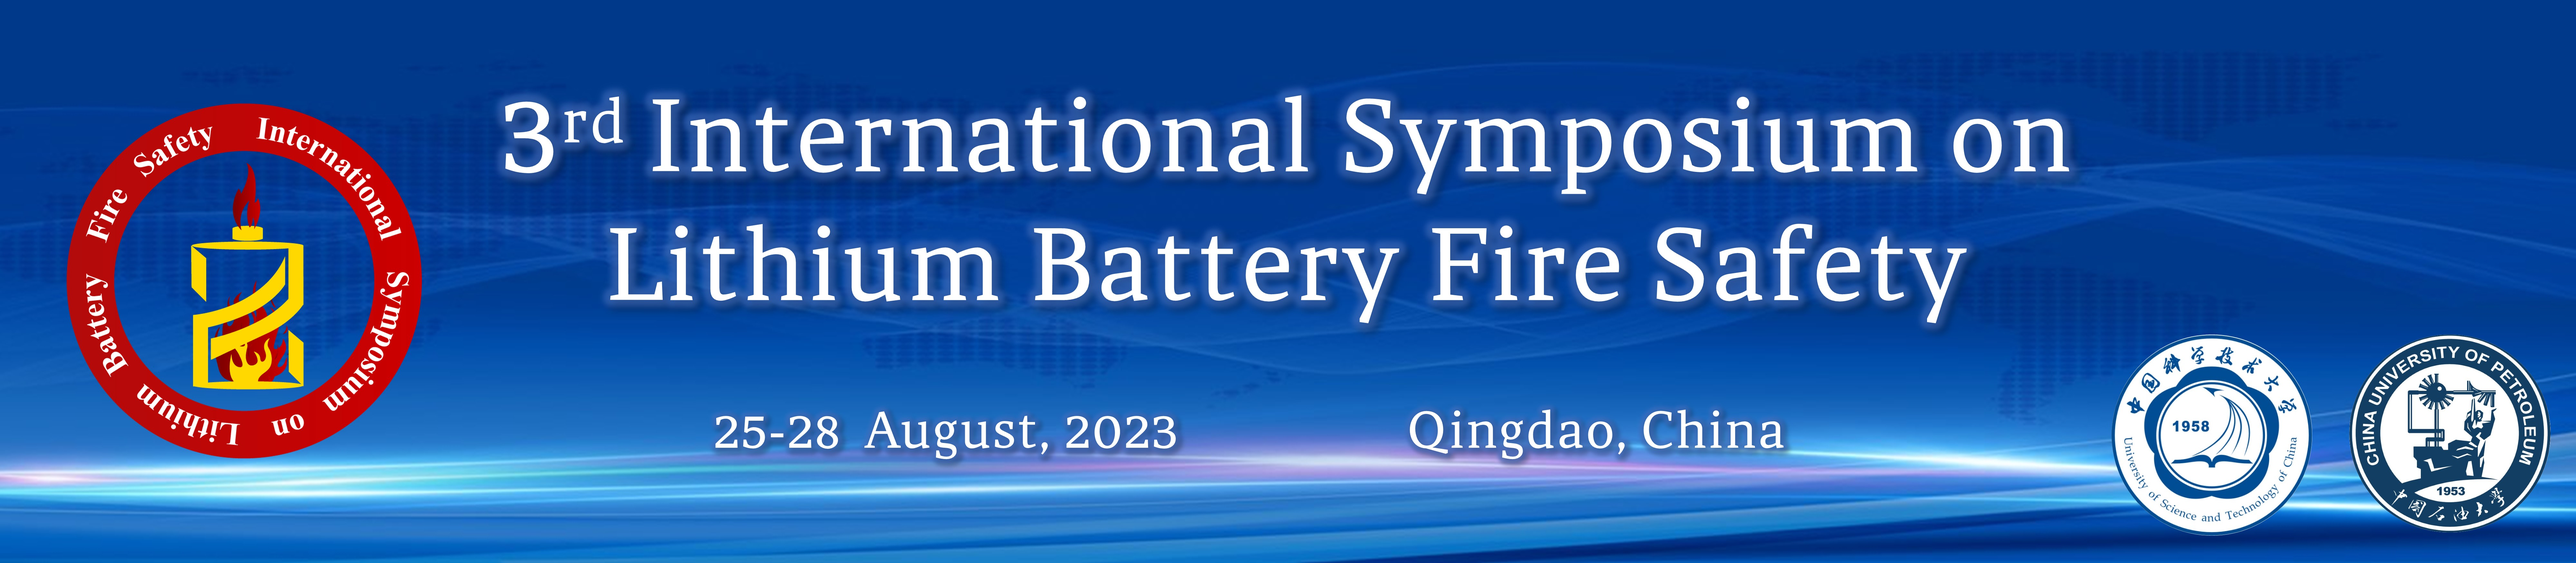
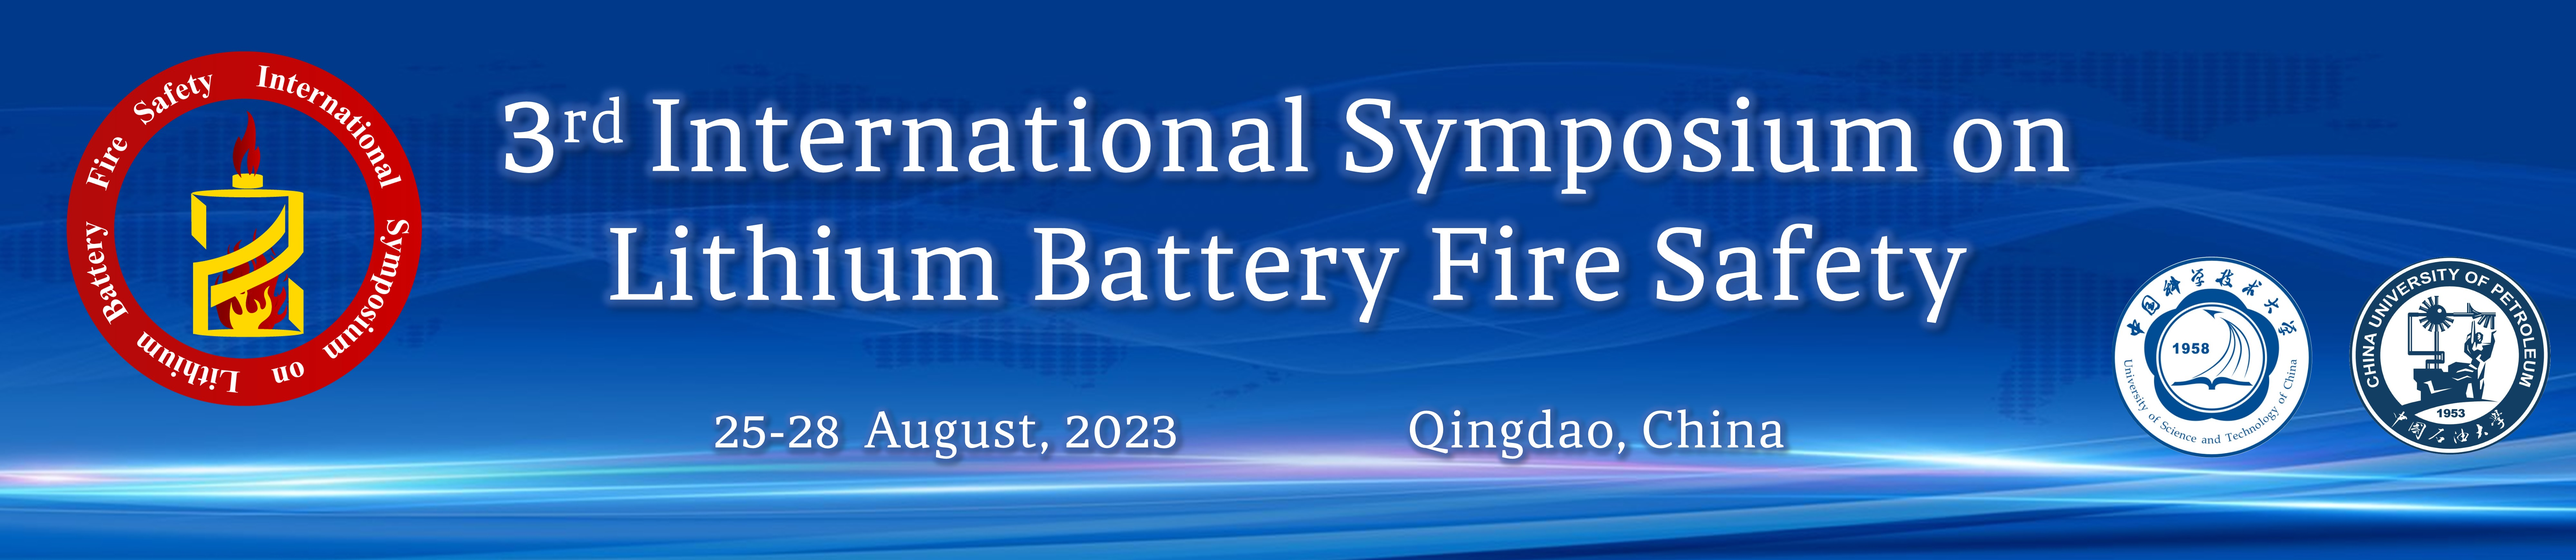
Add files via upload

diff --git a/index.html b/index.html
@@ -187,7 +187,7 @@
 <tr style="height: 64px;">
 <td style="width: 99.7699%; vertical-align: top; height: 64px;">
 <p style="line-height: 2;"><span style="font-size: 16px; font-family: arial, helvetica, sans-serif;">The 3<sup>rd</sup> International Symposium on Lithium Battery Fire Safety (3<sup>rd</sup> ISLBFS) will be hosted from 25 to 28 August, 2023, in Qingdao, China. It is aimed to provide an opportunity for scholars and others who are interested in fire safety science of lithium based battery to meet together and discuss and share knowledge.&nbsp;</span></p>
-<p><span style="font-family: arial, helvetica, sans-serif; font-size: 18px;"><img src="./2023 The 3rd International Symposium on Lithium Battery Fire Safety_files/微信图片_20220919105640.png" alt="" style="display: block; margin-left: auto; margin-right: auto;" width="1000" height="207"></span></p>
+<p><span style="font-family: arial, helvetica, sans-serif; font-size: 18px;"><img src="./2023 The 3rd International Symposium on Lithium Battery Fire Safety_files/飞书20220921-160928.png" alt="" style="display: block; margin-left: auto; margin-right: auto;" width="1000" height="652"></span></p>
 <p></p>
 </td>
 </tr>
